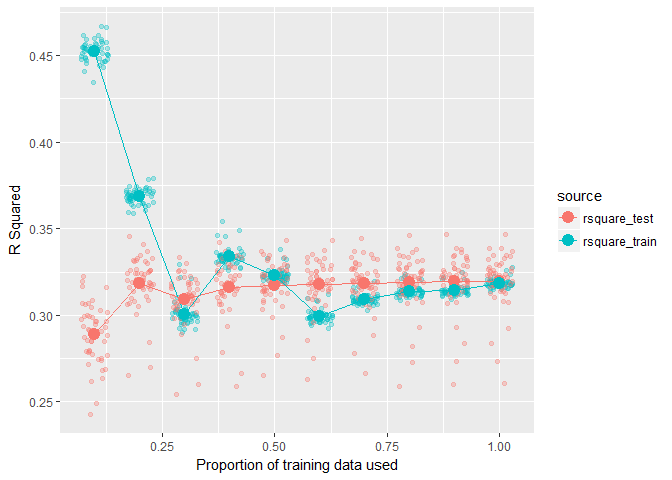
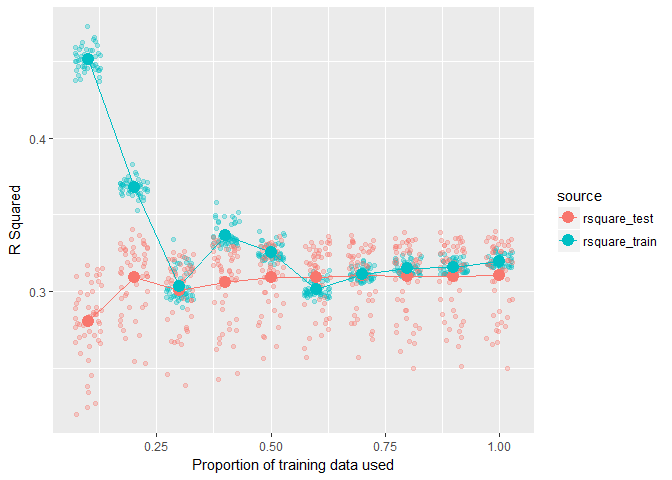
Update "simple case" section of README

diff --git a/README.md b/README.md
@@ -14,16 +14,19 @@ pipelearner is currently available from github as a development package only. It
 devtools::install_github("drsimonj/pipelearner")
 ```
 
-pipelearner is built on top of [tidyverse](https://github.com/tidyverse/tidyverse) packages like [modelr](https://github.com/hadley/modelr). To harness the full power of pipelearner, you should be familiar with tidyverse tools and principles. In particular, it will help to understand the following:
+pipelearner is built on top of [tidyverse](https://github.com/tidyverse/tidyverse) packages like [modelr](https://github.com/hadley/modelr). To harness the full power of pipelearner, it will help to possess some technical knowledge of tidyverse tools such as:
 
--   `%>%`, the pipe operator from magrittr package.
--   tibbles and how to iterate through them with the likes of `purrr`.
--   It would also help to be familiar with `resample` objects from the [modelr](https://github.com/hadley/modelr) package.
+-   `%>%` the pipe operator from [magrittr]() package.
+-   tibbles from [tibble]() package.
+-   `map()` and other iteration functions from [purrr]() package.
+-   `resample` objects from [modelr](https://github.com/hadley/modelr) package.
+
+An excellent resource to get started with these is Hadley Wickham's book, [R for Data Science](http://r4ds.had.co.nz/).
 
 The basics
 ----------
 
-Similar to the way ggplot2 elements are layered with `+`, pipelearner involves building a pipelearner object, which is a list, with functions that can be piped into eachother with `%>%`:
+Like how ggplot2 elements are layered with `+`, pipelearner involves building a pipelearner object, which is a list, with functions that can be piped into eachother with `%>%`:
 
 -   `pipelearner()` to setup the pipelearner object
 -   `learn_cvpairs()` to customize the cross-validation pairs
@@ -32,18 +35,67 @@ Similar to the way ggplot2 elements are layered with `+`, pipelearner involves b
 
 Once the pipelearner object is setup, call `learn()` to fit everything and `summary()` to extract the results as a tibble.
 
-An important thing to note is that "fit everything" means that pieplearner fits all combinations of the specified models, sets of training data in the cross-validation pairs, with proportions defined by the learning curves.
-
 Simple case
 -----------
 
-The following trains a single regression model for predicting `Sepal.Length` with all other variables in the iris data set.
+The following sets up a single regression model `lm` for predicting `Sepal.Length` with all other variables (`Sepal.Length ~ .`) in the `iris` data set.
 
 ``` r
 library(pipelearner)
 
-pl <- pipelearner(iris) %>% learn_models(lm, Sepal.Length ~ .)
+pl <- pipelearner(iris, lm, Sepal.Length ~ .)
+```
 
+Printing a pipelearner object exposes the list elements:
+
+``` r
+pl
+#> $data
+#> # A tibble: 150 × 5
+#>    Sepal.Length Sepal.Width Petal.Length Petal.Width Species
+#>           <dbl>       <dbl>        <dbl>       <dbl>  <fctr>
+#> 1           5.1         3.5          1.4         0.2  setosa
+#> 2           4.9         3.0          1.4         0.2  setosa
+#> 3           4.7         3.2          1.3         0.2  setosa
+#> 4           4.6         3.1          1.5         0.2  setosa
+#> 5           5.0         3.6          1.4         0.2  setosa
+#> 6           5.4         3.9          1.7         0.4  setosa
+#> 7           4.6         3.4          1.4         0.3  setosa
+#> 8           5.0         3.4          1.5         0.2  setosa
+#> 9           4.4         2.9          1.4         0.2  setosa
+#> 10          4.9         3.1          1.5         0.1  setosa
+#> # ... with 140 more rows
+#> 
+#> $cv_pairs
+#> # A tibble: 1 × 3
+#>            train           test   .id
+#>           <list>         <list> <chr>
+#> 1 <S3: resample> <S3: resample>     1
+#> 
+#> $train_ps
+#> [1] 1
+#> 
+#> $models
+#> # A tibble: 1 × 5
+#>         target model     params     .f   .id
+#>          <chr> <chr>     <list> <list> <chr>
+#> 1 Sepal.Length    lm <list [1]>  <fun>     1
+#> 
+#> $fits
+#> NULL
+#> 
+#> attr(,"class")
+#> [1] "pipelearner"
+```
+
+**Defaults** to note:
+
+-   `data` is split into a single cross-validation pair of resample objects (under `cv_pairs`) referencing 80% of the data for training and 20% for testing.
+-   Learning is done on the entire proportion of the training data (`train_ps == 1`).
+
+When we've setup these elements as desired, use `learn()` to fit all models to every combination of training proportions (`train_ps`) and set of training data in the cross-validation pairs (`cv_pairs`). use `summary()` to obtain a tibble of the results.
+
+``` r
 pl %>% learn() %>% summary()
 #> # A tibble: 1 × 10
 #>   models.id cv_pairs.id train_p      fit       target model     params
@@ -52,10 +104,11 @@ pl %>% learn() %>% summary()
 #> # ... with 3 more variables: train <list>, test <list>, .id <chr>
 ```
 
--   A pipelearner object is created and setup to use the iris data set with `pipelearner(iris)`. By default, this creates a single cross-validation pair by randomly selecting 80% of the data for training, and separating 20% to be used as a test set.
--   A linear regression model, predicting Sepal.Length with all other variables, is specified by piping the object to `learn_models(lm, Sepal.Length ~ .)`.
--   The model is fit to the training data by piping into `learn()`.
--   Results are extracted as a tibble with `summary()`. The tibble contains our fitted regression model under `fit`, the training data it was fit on under `train`, and a `test` data set to predict on.
+Quick notes:
+
+-   `fit` contains our fitted model.
+-   `train` contains a resample object referencing the data that model was fitted to.
+-   `test` contains a resample object referencing test data that our model was *not* fitted to (for later use).
 
 Cross-validation pairs
 ----------------------
@@ -108,7 +161,7 @@ We can add many models with `learn_models()`, which, unlike the previous functio
 
 ``` r
 pl %>% 
-  learn_models(c(rpart::rpart), Sepal.Length ~ .) %>% 
+  learn_models(rpart::rpart, Sepal.Length ~ .) %>% 
   learn() %>% 
   summary()
 #> # A tibble: 2 × 10
@@ -122,7 +175,9 @@ pl %>%
 
 Notice two rows where the regression and decision tree models have been fit to the training data, represented by `models.id`.
 
-`learn_models()` is very flexible. It will take a pipelearner object followed by a vector of model functions, a vector of formulas, and vector of any additional hyperparameters. When vectors are provided, all combinations are expanded, making it easy to do things like compare many models with the same formulas, compare many different formulas, or do grid-search.
+Two things to know about `learn_models()`:
+
+-   When arguments beyond a data frame are supplied to `pipelearner()`, such as `lm` and the formula above, these are used by `learn_models()`. This makes calls like `pipelearner(d, l, f, ...)` the same as `pipelearner(d) %>% learn_models(l, f, ...)`. `learn_models()` is very flexible. It will take a pipelearner object followed by a vector of model functions, a vector of formulas, and vector of any additional hyperparameters. When vectors are provided, all combinations are expanded, making it easy to do things like compare many models with the same formulas, compare many different formulas, or do grid-search.
 
 For example, the following compares linear regression and a decision tree over different formulas:
 
@@ -135,24 +190,24 @@ pipelearner(iris) %>%
   learn() %>% 
   summary()
 #> # A tibble: 6 × 10
-#>   models.id cv_pairs.id train_p         fit       target        model
-#>       <chr>       <chr>   <dbl>      <list>        <chr>        <chr>
-#> 1         1           1       1    <S3: lm> Sepal.Length           lm
-#> 2         2           1       1 <S3: rpart> Sepal.Length rpart::rpart
-#> 3         3           1       1    <S3: lm> Sepal.Length           lm
-#> 4         4           1       1 <S3: rpart> Sepal.Length rpart::rpart
-#> 5         5           1       1    <S3: lm> Sepal.Length           lm
-#> 6         6           1       1 <S3: rpart> Sepal.Length rpart::rpart
-#> # ... with 4 more variables: params <list>, train <list>, test <list>,
-#> #   .id <chr>
+#>   models.id cv_pairs.id train_p         fit       target
+#>       <chr>       <chr>   <dbl>      <list>        <chr>
+#> 1         1           1       1    <S3: lm> Sepal.Length
+#> 2         2           1       1 <S3: rpart> Sepal.Length
+#> 3         3           1       1    <S3: lm> Sepal.Length
+#> 4         4           1       1 <S3: rpart> Sepal.Length
+#> 5         5           1       1    <S3: lm> Sepal.Length
+#> 6         6           1       1 <S3: rpart> Sepal.Length
+#> # ... with 5 more variables: model <chr>, params <list>, train <list>,
+#> #   test <list>, .id <chr>
 ```
 
 The following tests a regression model and grid-searches hyperparameters of a decision tree:
 
 ``` r
 pipelearner(iris) %>%
-  learn_models(c(lm), Sepal.Length ~ .) %>% 
-  learn_models(c(rpart::rpart), Sepal.Length ~ .,
+  learn_models(lm, Sepal.Length ~ .) %>% 
+  learn_models(rpart::rpart, Sepal.Length ~ .,
                minsplit = c(2, 20), cp = c(0.01, 0.1)) %>% 
   learn() %>% 
   summary()
@@ -178,11 +233,12 @@ All of the functions can be combined. For example, the following will:
 -   With a regression modelling all interactions, and a decision tree modelling all features.
 
 ``` r
-pipelearner(iris) %>% 
+iris %>% 
+  pipelearner() %>% 
   learn_cvpairs(n = 50) %>% 
   learn_curves(seq(.5, 1, by = .1)) %>% 
-  learn_models(c(lm), Sepal.Width ~ .*.) %>% 
-  learn_models(c(rpart::rpart), Sepal.Width ~ .) %>% 
+  learn_models(lm, Sepal.Width ~ .*.) %>% 
+  learn_models(rpart::rpart, Sepal.Width ~ .) %>% 
   learn() %>% 
   summary()
 #> # A tibble: 600 × 10
@@ -233,10 +289,11 @@ Using the `weather` data from the `nycflights13` package, fit a single regressio
 ``` r
 library(nycflights13)
 
-results <- pipelearner(weather) %>% 
+results <- weather %>% 
+  pipelearner() %>% 
   learn_cvpairs(n = 50, test = .15) %>% 
   learn_curves(seq(.1, 1, by = .1)) %>% 
-  learn_models(c(lm), visib ~ humid + precip + wind_dir) %>% 
+  learn_models(lm, visib ~ humid + precip + wind_dir) %>% 
   learn() %>% 
   summary()
 results
@@ -273,16 +330,16 @@ results %>% select(cv_pairs.id, train_p, contains("rsquare"))
 #> # A tibble: 500 × 4
 #>    cv_pairs.id train_p rsquare_train rsquare_test
 #>          <chr>   <dbl>         <dbl>        <dbl>
-#> 1           01     0.1     0.4547046    0.2882677
-#> 2           01     0.2     0.3708495    0.3190125
-#> 3           01     0.3     0.2997861    0.3110033
-#> 4           01     0.4     0.3344001    0.3174281
-#> 5           01     0.5     0.3228480    0.3175361
-#> 6           01     0.6     0.2982186    0.3182649
-#> 7           01     0.7     0.3087643    0.3186599
-#> 8           01     0.8     0.3128053    0.3198158
-#> 9           01     0.9     0.3138884    0.3201375
-#> 10          01     1.0     0.3183582    0.3204611
+#> 1           01     0.1     0.4555859    0.2715561
+#> 2           01     0.2     0.3724131    0.3143262
+#> 3           01     0.3     0.3011811    0.3095932
+#> 4           01     0.4     0.3372752    0.3104970
+#> 5           01     0.5     0.3260482    0.3114620
+#> 6           01     0.6     0.3025314    0.3139452
+#> 7           01     0.7     0.3118713    0.3129080
+#> 8           01     0.8     0.3158607    0.3140055
+#> 9           01     0.9     0.3157010    0.3152844
+#> 10          01     1.0     0.3192894    0.3151059
 #> # ... with 490 more rows
 ```
 
@@ -303,4 +360,4 @@ results %>%
         y = "R Squared")
 ```
 
-![](README-unnamed-chunk-13-1.png)
+![](README-unnamed-chunk-15-1.png)
